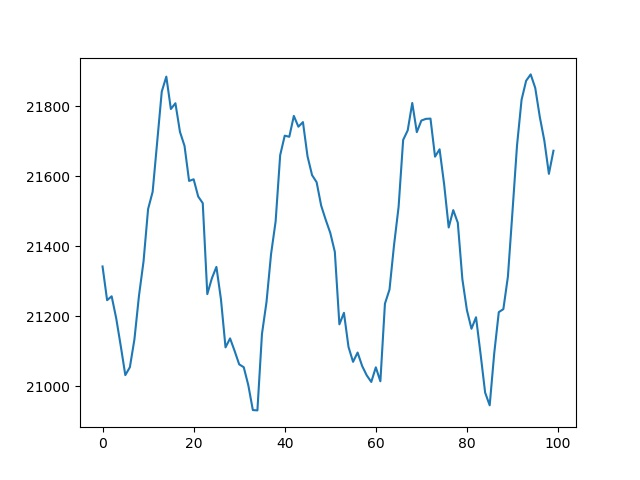
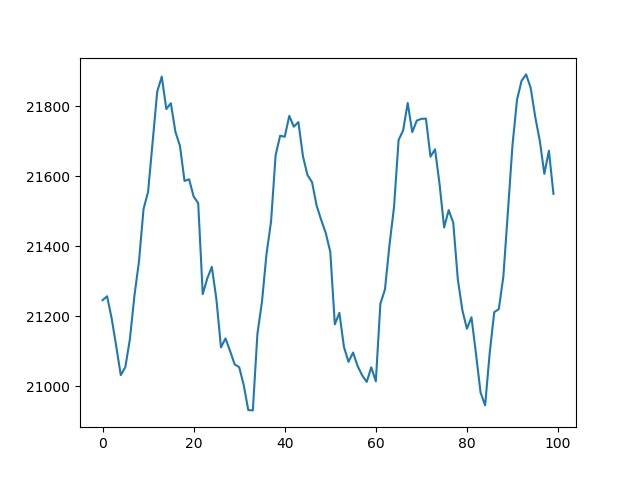
'auto'

Changed region(s): [[0.1562, 0.1562, 0.875, 0.875]]

diff --git a/README.md b/README.md
@@ -1,5 +1,5 @@
 Frizider live: 8
-21672.633333333335 
+21549.55 
 0
 Temperatura:
 
